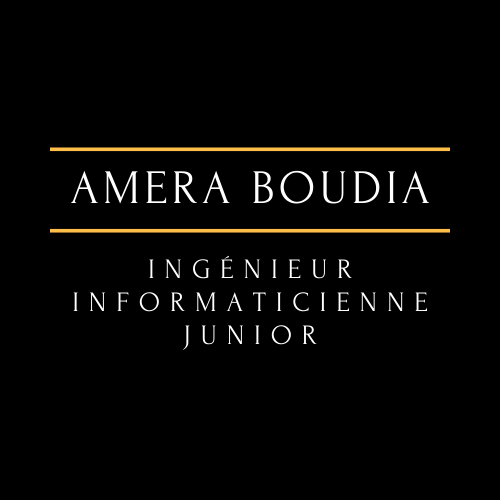
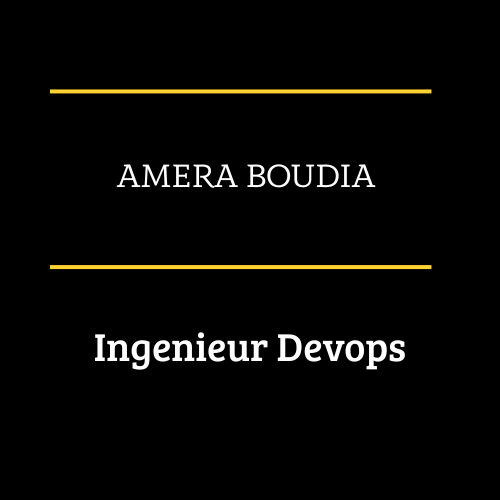
updates

diff --git a/src/components/Competences.js b/src/components/Competences.js
@@ -1,6 +1,7 @@
 import React from 'react'
 import { jsPDF } from "jspdf";
 import cv from '../CV-IMG.png'
+import cv1 from '../CV-IMG1.png'
 
 function Competences() {
 
@@ -9,6 +10,8 @@ function Competences() {
         var width = doc.internal.pageSize.getWidth();
         var height = doc.internal.pageSize.getHeight();
         doc.addImage(cv, 'PNG', 0, 0, width, height)
+        doc.addPage();
+        doc.addImage(cv1, 'PNG', 0, 0, width, height)
         doc.save("CV-BOUDIA-Amera.pdf");
     }
     return (
@@ -42,7 +45,7 @@ function Competences() {
                         <div className="progress-bar progress-bar-striped bg-warning" role="progressbar"
                             style={{ "width": "40%" }} aria-valuenow="75" aria-valuemin="0" aria-valuemax="100"></div>
                     </div>
-                    <h5 className="itemC">FRONT-END</h5>
+                    <h5 className="itemC pt-3">FRONT-END</h5>
                     <h4 className="itemC1">HTLM</h4>
                     <div className="progress Bar">
                         <div className="progress-bar progress-bar-striped bg-warning" role="progressbar"
@@ -73,7 +76,7 @@ function Competences() {
                         <div className="progress-bar progress-bar-striped bg-warning" role="progressbar"
                             style={{ "width": "75%" }} aria-valuenow="60" aria-valuemin="0" aria-valuemax="100"></div>
                     </div>
-                    <h5 className="itemC">DIVRES</h5>
+                    <h5 className="itemC pt-3">SYSTEMES</h5>
                     <h4 className="itemC1">WINDOWS</h4>
                     <div className="progress Bar">
                         <div className="progress-bar progress-bar-striped bg-warning" role="progressbar"
@@ -82,11 +85,61 @@ function Competences() {
                     <h4 className="itemC1">LINUX</h4>
                     <div className="progress Bar">
                         <div className="progress-bar progress-bar-striped bg-warning" role="progressbar"
+                            style={{ "width": "70%" }} aria-valuenow="75" aria-valuemin="0" aria-valuemax="100"></div>
+                    </div>
+                    <h5 className="itemC pt-3">CI / CD</h5>
+                    <h4 className="itemC1">DOCKER</h4>
+                    <div className="progress Bar">
+                        <div className="progress-bar progress-bar-striped bg-warning" role="progressbar"
+                            style={{ "width": "80%" }} aria-valuenow="75" aria-valuemin="0" aria-valuemax="100"></div>
+                    </div>
+                    <h4 className="itemC1">KUBERNETES</h4>
+                    <div className="progress Bar">
+                        <div className="progress-bar progress-bar-striped bg-warning" role="progressbar"
                             style={{ "width": "60%" }} aria-valuenow="75" aria-valuemin="0" aria-valuemax="100"></div>
+                    </div>
+                    <h4 className="itemC1">ARGOCD</h4>
+                    <div className="progress Bar">
+                        <div className="progress-bar progress-bar-striped bg-warning" role="progressbar"
+                            style={{ "width": "60%" }} aria-valuenow="75" aria-valuemin="0" aria-valuemax="100"></div>
+                    </div>
+                    <h4 className="itemC1">HELM</h4>
+                    <div className="progress Bar">
+                        <div className="progress-bar progress-bar-striped bg-warning" role="progressbar"
+                            style={{ "width": "50%" }} aria-valuenow="75" aria-valuemin="0" aria-valuemax="100"></div>
+                    </div>
+                    <h4 className="itemC1">JENKINS</h4>
+                    <div className="progress Bar">
+                        <div className="progress-bar progress-bar-striped bg-warning" role="progressbar"
+                            style={{ "width": "40%" }} aria-valuenow="75" aria-valuemin="0" aria-valuemax="100"></div>
+                    </div>
+                    <h4 className="itemC1">GITLAB-CI</h4>
+                    <div className="progress Bar">
+                        <div className="progress-bar progress-bar-striped bg-warning" role="progressbar"
+                            style={{ "width": "40%" }} aria-valuenow="75" aria-valuemin="0" aria-valuemax="100"></div>
+                    </div>
+                    <h4 className="itemC1">KUSTOMIZE</h4>
+                    <div className="progress Bar">
+                        <div className="progress-bar progress-bar-striped bg-warning" role="progressbar"
+                            style={{ "width": "50%" }} aria-valuenow="75" aria-valuemin="0" aria-valuemax="100"></div>
+                    </div>
+                    <h5 className="itemC pt-3">CLOUD</h5>
+                    <h4 className="itemC1">GCP</h4>
+                    <div className="progress Bar">
+                        <div className="progress-bar progress-bar-striped bg-warning" role="progressbar"
+                            style={{ "width": "40%" }} aria-valuenow="75" aria-valuemin="0" aria-valuemax="100"></div>
+                    </div>
+                    <h4 className="itemC1">AZURE</h4>
+                    <div className="progress Bar">
+                        <div className="progress-bar progress-bar-striped bg-warning" role="progressbar"
+                            style={{ "width": "40%" }} aria-valuenow="75" aria-valuemin="0" aria-valuemax="100"></div>
                     </div>
                 </div>
                 <div className="col-md-6 text-center">
-                    <div> <img src={cv} alt="Mon CV" className="image mt-4" /></div>
+                    <div> 
+                        <img src={cv} alt="Mon CV" className="image mt-4" />
+                        <img src={cv1} alt="Mon CV" className="image mt-4" />
+                    </div>
                     <button className='bC mt-4 mb-3' onClick={Telecharger}>Télécharger CV</button>
                 </div>
 

diff --git a/src/components/AboutMe.js b/src/components/AboutMe.js
@@ -6,13 +6,16 @@ const AboutMe = () => {
         <div>
             <h3 className="titreAB text-center">A propos de moi </h3>
             <div className="row">
-                <img src={photocv} alt="MaPhoto" className="imgAB col-md-5"></img>
-                <p className="text-AB col-md-7">Hello ! je suis amera , ingénieur informaticienne junior spécialisée dans le développement informatique .<br />
+                <img src={photocv} alt="MaPhoto" className="imgAB col-md-4 h-auto"></img>
+                <p className="text-AB col-md-7">Hello ! je suis amera , ingénieur devops spécialisée dans le développement informatique des applications et le deploiement en cloud.<br />
                     Mon parcours est assez atypique , après l'obtention de mon diplôme d’ingénieur en Algérie , je me suis installée en France et pour des raisons familiales et
-                    financières je n’ai pas pu travailler dans le domaine de l’informatique .Mon parcours professionnel est très variée , j’ai exercée dans plusieurs domaines notamment dans la santé autant que aide soignante pendant 4 ans ;
-                    une expérience qui s’est conclue par une opportunité de faire un formation et de me rediriger dans le secteur du numérique , quel bonheur de se sentir enfin à sa place .je continue donc dans cet axe avec envie, motivation et des idées plein la tête.
-                    D'un naturel réfléchi et organisé, je suis capable de m’adapter à un poste de travail et à une équipe assez rapidement.<br />
-                    Autonome, j’apprends vite et je serais ravie de mettre ces qualités et mes compétences  au service de votre entreprise.<br/>
+                    financières je n’ai pas pu travailler dans le domaine de l’informatique.<br/>
+                    Mon parcours professionnel est très variée , j’ai exercée dans plusieurs domaines;
+                    des expériences qui se sont conclue par une opportunité de faire un formation et de me rediriger dans le secteur du numérique , quel bonheur de se sentir enfin à sa place. Je continue donc dans cet axe avec envie, motivation et des idées plein la tête.
+                    Ayant un grand intérêt pour l’administration des infrastructures et au développement informatiques , je suis passionnée par les technologies autour de la conteneurisation tel que Docker, k8s, Gitlab-ci,ArgoCD; je souhaite faire usage de mes connaissances et de mon expertise acquise durant mes 2
+                    ans d’expérience autant qu’ingénieur DevOps et 1 ans autant que developpeur web afin de vous apporter un appui dans la mise en place d’une chaine automatisée de la création jusqu’à la mise en
+                    production de vos projets . Je suis réfléchie et organisée, autonome, j’apprends vite et je serais ravie
+                    de mettre mes qualités et mes compétences au service de votre entreprise.
                     
                 </p>
             </div>

diff --git a/src/components/PolitiqueConfidentialite.js b/src/components/PolitiqueConfidentialite.js
@@ -45,7 +45,7 @@ function PolitiqueConfidentialite() {
             <p className='para15'>Conformément à la loi « Informatique et Libertés » du 6 janvier 1978 (art. 34), vous disposez d’un droit d’accès, de modification,
                 de rectification et de suppression des données qui vous concernent. Pour exercer
                 ce droit, vous pouvez me contacter par mail à l’adresse amera.boudia84@gmail.com ou par courrier à l’adresse :</p>
-            <h5 className='adresseP text-center mt-3 mb-4'>Mlle Amera BOUDIA 88 avenue Gabriel Péri ARGENTEUIL </h5>
+            <h5 className='adresseP text-center mt-3 mb-4'>Mlle Amera BOUDIA 3 avenue du camp long Cannes </h5>
             <p className='para16'>Conformément à la réglementation en vigueur, votre demande doit être signée et accompagnée de la photocopie d’un titre d’identité portant votre signature et préciser l’adresse à laquelle doit vous parvenir la réponse. Une réponse vous sera
                 alors adressée dans un délai de 2 mois suivant la réception de la demande.</p>
             <p className='para17'>La sécurité de vos Données personnelles est très importante pour moi. Les données personnelles recueillies sur le site www.amera-boudia.com sont traitées selon des protocoles sécurisés qui limitent
@@ -55,7 +55,7 @@ function PolitiqueConfidentialite() {
             <p className='para19'>Dans la limite de ce qui est autorisé par les lois en vigueur je décline toute responsabilité en cas de dommage direct ou indirect, des pertes, coûts, que ce soit contractuelle, délictuelle, y compris par négligence, que vous pourriez subir en cas d’accès non autorisé,
                 de perte ou d’altération de vos données personnelles.</p>
                 <div className='footerP'>
-                    <h5 className=' text-center mt-3 mb-4 adresseP'>© Copyright 2021 - Amera BOUDIA. Tous droits réservés.</h5>
+                    <h5 className=' text-center mt-3 mb-4 adresseP'>© Copyright 2025 - Amera BOUDIA. Tous droits réservés.</h5>
                 </div>
 
         </div>

diff --git a/src/App.js b/src/App.js
@@ -20,7 +20,6 @@ function App() {
       <NavBar />
       < BrowserRouter >
         <Switch>
-          <Route exact path="/" component={Header} />
           <Route path="/aboutme" component={AboutMe} />
           <Route path="/contactme" component={Contact} />
           <Route path="/competences" component={Competences} />
@@ -29,9 +28,10 @@ function App() {
           <Route path="/cookies" component={Cookies} />
           <Route path="/mentionslegales" component={Mentionslegales} />
           <Route path="/politiquedeconfidentialite" component={PolitiqueConfidentialite} />
+          <Route exact path="/" component={Header} />
         </Switch>
-      </ BrowserRouter >
-      <Footer/>
+      </BrowserRouter >
+      <Footer />
       <CookieConsent 
       enableDeclineButton 
       flipButtons

diff --git a/src/components/Header.js b/src/components/Header.js
@@ -27,10 +27,10 @@ const Header = () => {
                 }} />
             <div className="header-wraper">
                 <div className="min-info">
-                    <h1>Développement sites web et mobiles pour vos projets</h1>
+                    <h2>Automatisatiser la gestion de vos applications , du développement jusqu'au déploiement en continu on promise ou en cloud</h2>
                     <Typed
                         className='typed-text'
-                        strings={["Site vitrine", "site e-commerce", "Automatisation usine logicielle"]}
+                        strings={["Site vitrine", "site e-commerce", "Automatiser le deploiement des applications conteneurisés"]}
                         typeSpeed={40}
                         backSpeed={50}
                         loop

diff --git a/src/App.css b/src/App.css
@@ -189,15 +189,17 @@ nav ul li {
 
 /****************About me **************************************/
 
-/**.imgAB
+.imgAB
 {
-  height: 500px;
-  width: 50px;
-}*/
+  width: 100%;
+  max-width: 400px;
+  height: auto;
+}
 
 @media (max-width:760px) {
   .imgAB {
-    height: 250px;
+    height: auto;
+    width: 50px;
   }
 }
 
@@ -207,7 +209,7 @@ nav ul li {
   text-align: center;
   text-transform: uppercase;
   margin-top: 20px;
-  font-size: 40px;
+  font-size: 30px;
 }
 
 @media (max-width:760px) {
@@ -544,6 +546,8 @@ nav ul li {
 .footer {
   background-color: black;
   height: 100px;
+  bottom: 0;
+  width: 100%;
 }
 
 .ml a {

diff --git a/src/components/NavBar.js b/src/components/NavBar.js
@@ -25,7 +25,7 @@ const NavBar = () => {
                             <a className="nav-link active" href='/competences'>Mes compétences</a>
                         </li>
                         <li className="nav-item">
-                            <a className="nav-link active" href='/realisations'>Mes réalisations</a>
+                            <a className="nav-link active" href='/realisations'>Mes réalisations web</a>
                         </li>
                         <li className="nav-item">
                             <a className="nav-link active" href='/contactme'>Contactez moi</a>

diff --git a/src/components/Contact.js b/src/components/Contact.js
@@ -10,10 +10,10 @@ function Contact() {
     const history = useHistory();
     const Envoyer = (e) => {
         e.preventDefault();
-        emailjs.sendForm('service_jwfzny6',
-            'template_9hvmnf3',
+        emailjs.sendForm('service_hf4jx2i',
+            'template_vyqdpcf',
             e.target,
-            "user_F3PIDKMllej8RGWPWJvqx"
+            "v7M9z2bVH_LiBVuka"
         ).then(res => {
             console.log(res);
             history.push('/confirmContact');

diff --git a/src/components/Footer.js b/src/components/Footer.js
@@ -3,7 +3,7 @@ import { AiFillLinkedin } from 'react-icons/ai'
 function Footer() {
     return (
         <div className='row footer text-center'>
-            <div className='col-6 mt-3 ml'>
+            <div className='col-6 mt-3'>
                 <a href="/mentionslegales" target='_blank'>Mentions légales</a><br />
                 <a href="/politiquedeconfidentialite" target='_blank'>CGU</a>
             </div>

diff --git a/public/index.html b/public/index.html
@@ -24,7 +24,7 @@
       work correctly both with client-side routing and a non-root public URL.
       Learn how to configure a non-root public URL by running `npm run build`.
     -->
-    <title>Portefolio de Amera BOUDIA | ingénieur informaticienne junior</title>
+    <title>Amera BOUDIA | Ingénieur Devops</title>
   </head>
   <body>
     <noscript>You need to enable JavaScript to run this app.</noscript>
